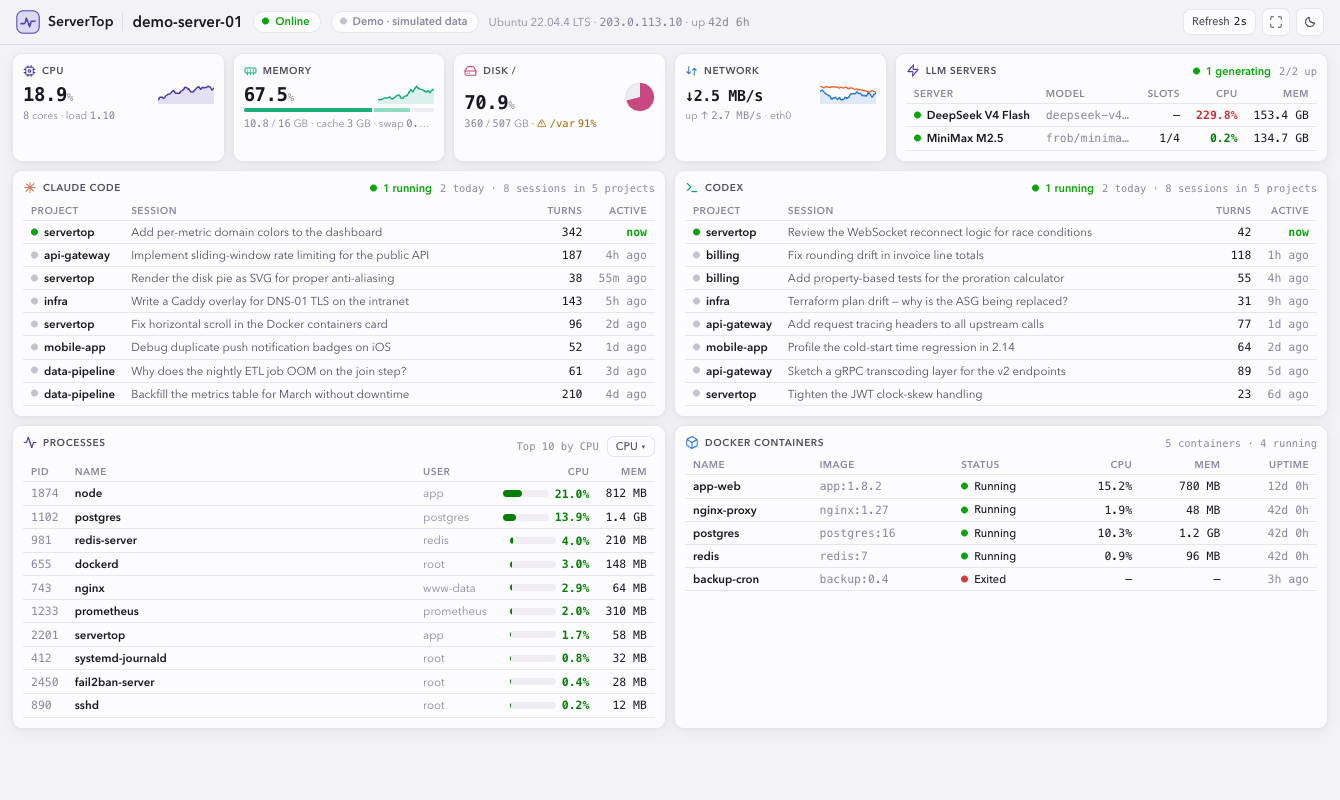
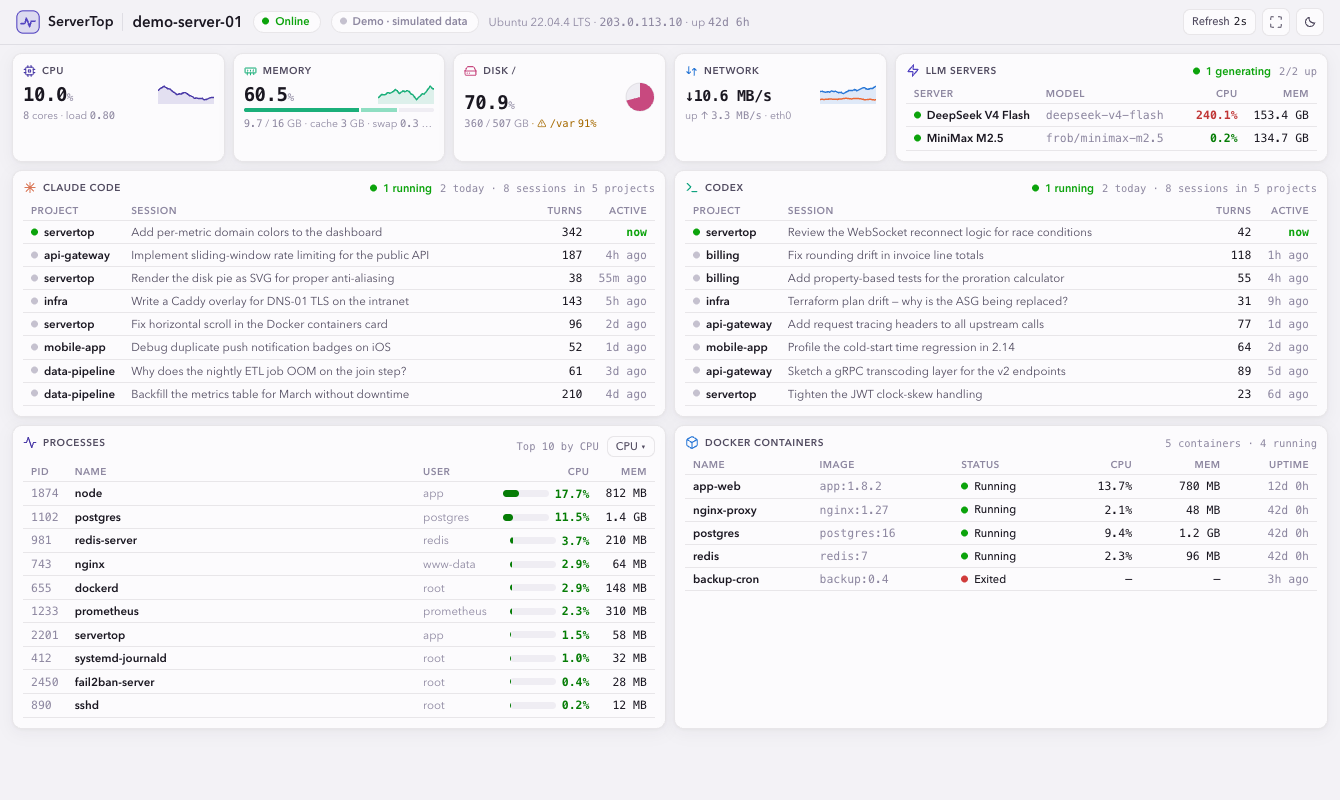
Drop the Slots column from the LLM card
Rarely populated (llama.cpp-only) and not worth the width; the head's
'N generating' badge still reports busy slots. Model names gain the
room at narrow spans.

diff --git a/web/src/components/cards.tsx b/web/src/components/cards.tsx
@@ -905,7 +905,6 @@ export function LlmCard({
               <Th>Server</Th>
               <Th>Model</Th>
               <Th right className="@max-[28rem]:hidden">Ctx</Th>
-              <Th right>Slots</Th>
               <Th right className="@max-[28rem]:hidden">Ping</Th>
               <Th right>CPU</Th>
               <Th right>Mem</Th>
@@ -929,9 +928,6 @@ export function LlmCard({
                 </Td>
                 <Td right className="num @max-[28rem]:hidden">
                   {fmtCtx(s.contextLength)}
-                </Td>
-                <Td right className="num">
-                  {s.slotsTotal !== null ? `${s.slotsBusy}/${s.slotsTotal}` : '—'}
                 </Td>
                 <Td right className="num @max-[28rem]:hidden">
                   {s.latencyMs !== null ? `${s.latencyMs}ms` : '—'}
